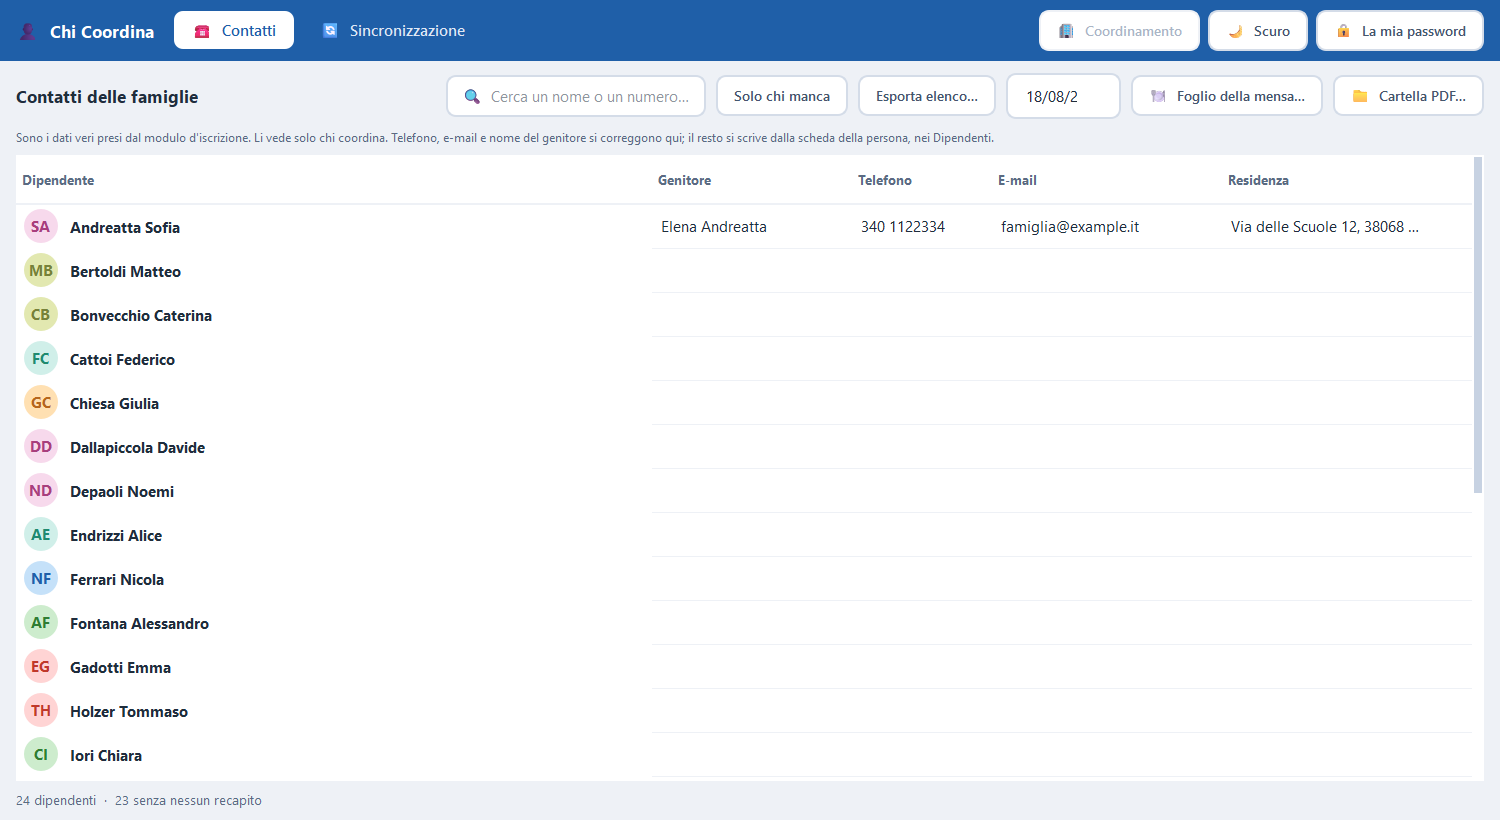
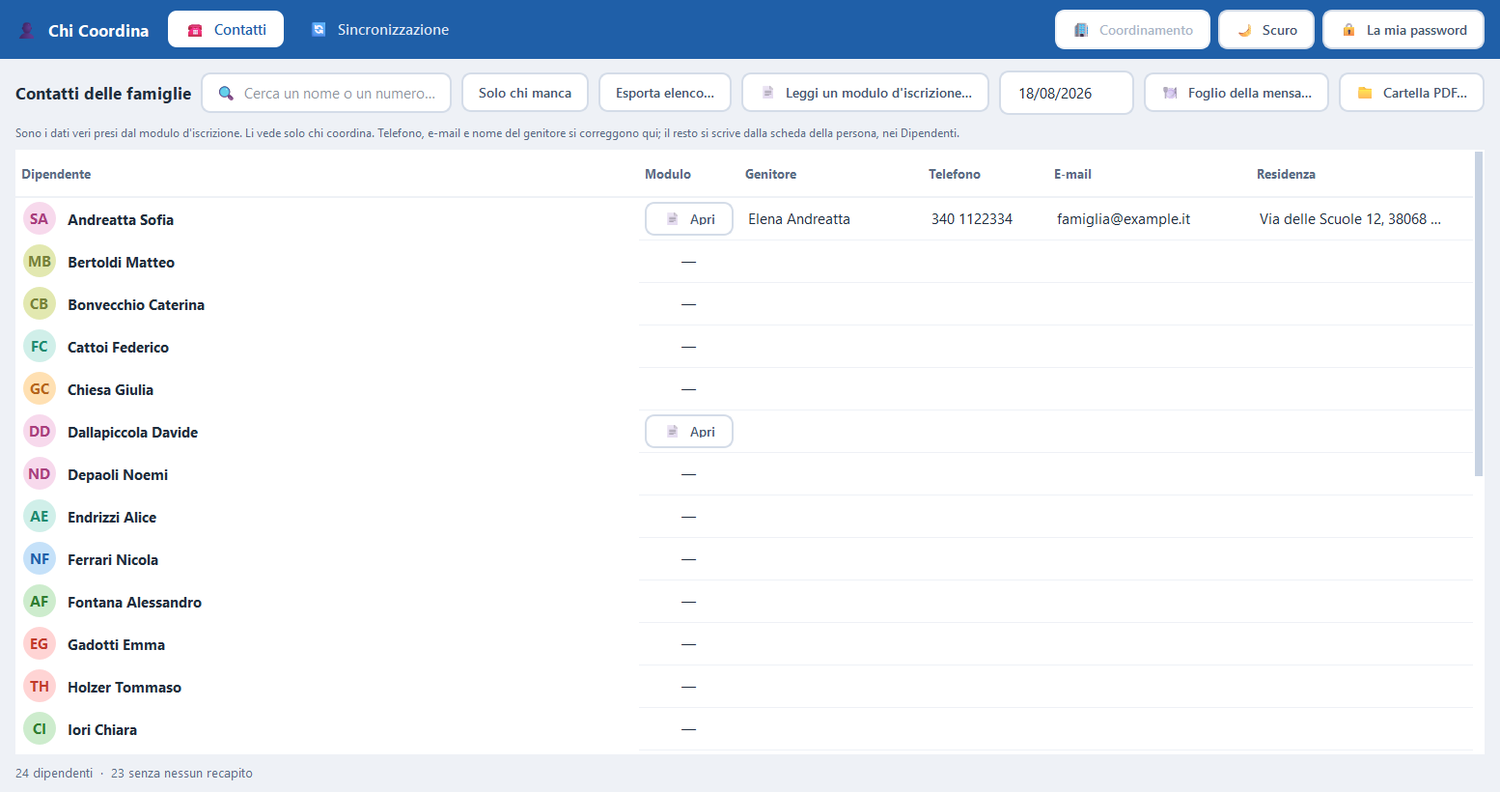
v2.6

diff --git a/schermate.html b/schermate.html
@@ -10,7 +10,7 @@
 <a class="marchio" href="index.html"><span class="segno">PdR</span><span class="testo">PdRManager</span></a>
 <nav><a href="index.html">Home</a><a href="schermate.html" aria-current="page">Le schermate</a><a href="stampe.html">Le stampe</a><a href="ruoli.html">Chi entra</a><a href="rete.html">I tre computer</a><a href="domande.html">Domande</a><a href="guida.html">La guida</a></nav></div></header>
 <header class="cappello"><p class="briciole"><a href="index.html">Home</a> › Le schermate</p><p class="occhiello">Una per una</p><h1>Le schermate</h1><p class="guida">Sono dieci, ma nessuno le vede tutte insieme: quelle che compaiono dipendono dal ruolo di chi è entrato e dal banco a cui sta lavorando. «Contatti», per esempio, la apre solo chi coordina.</p></header>
-<main><section class="blocco rivela"><div class="griglia larga"><a class="tessera rivela" href="schermata-lavori.html"><div class="anteprima"><img src="immagini/mini_lavori.png" width="640" height="253" loading="lazy" alt="Lavori del giorno"></div><div class="dentro"><span class="icona">📋</span><h3>Lavori del giorno</h3><p>La griglia della settimana: chi c&#x27;è e chi lavora dove.</p><span class="freccia">Guarda →</span></div></a><a class="tessera rivela" href="schermata-ragazzi.html"><div class="anteprima"><img src="immagini/mini_ragazzi.png" width="640" height="253" loading="lazy" alt="Dipendenti"></div><div class="dentro"><span class="icona">🧒</span><h3>Dipendenti</h3><p>L&#x27;anagrafica: chi partecipa, in che classe, a che fermata dell&#x27;autobus.</p><span class="freccia">Guarda →</span></div></a><a class="tessera rivela" href="schermata-aziende.html"><div class="anteprima"><img src="immagini/mini_aziende.png" width="640" height="253" loading="lazy" alt="Aziende"></div><div class="dentro"><span class="icona">🏭</span><h3>Aziende</h3><p>Le venti aziende del Paese con quanto pagano, quanti dipendenti ci stanno e da che classe in su.</p><span class="freccia">Guarda →</span></div></a><a class="tessera rivela" href="schermata-animatori.html"><div class="anteprima"><img src="immagini/mini_animatori.png" width="640" height="253" loading="lazy" alt="Titolari delle aziende"></div><div class="dentro"><span class="icona">🎪</span><h3>Titolari delle aziende</h3><p>Chi manda avanti il gioco.</p><span class="freccia">Guarda →</span></div></a><a class="tessera rivela" href="schermata-happycard.html"><div class="anteprima"><img src="immagini/mini_happycard.png" width="640" height="253" loading="lazy" alt="HappyCard"></div><div class="dentro"><span class="icona">🎟</span><h3>HappyCard</h3><p>Le tessere premio a bollini.</p><span class="freccia">Guarda →</span></div></a><a class="tessera rivela" href="schermata-buste.html"><div class="anteprima"><img src="immagini/mini_buste.png" width="640" height="238" loading="lazy" alt="Buste paga"></div><div class="dentro"><span class="icona">💶</span><h3>Buste paga</h3><p>Dove si emettono le buste paga.</p><span class="freccia">Guarda →</span></div></a><a class="tessera rivela" href="schermata-conti.html"><div class="anteprima"><img src="immagini/mini_conti.png" width="640" height="238" loading="lazy" alt="Conti correnti"></div><div class="dentro"><span class="icona">🏦</span><h3>Conti correnti</h3><p>I libretti di risparmio della Cassa rurale del Paese.</p><span class="freccia">Guarda →</span></div></a><a class="tessera rivela" href="schermata-contatti.html"><div class="anteprima"><img src="immagini/mini_contatti.png" width="640" height="350" loading="lazy" alt="Contatti"></div><div class="dentro"><span class="icona">☎</span><h3>Contatti</h3><p>I dati veri delle famiglie: residenza, genitore che firma, telefono, e-mail e allergie.</p><span class="freccia">Guarda →</span></div></a><a class="tessera rivela" href="schermata-sincronia.html"><div class="anteprima"><img src="immagini/mini_sincronia.png" width="640" height="238" loading="lazy" alt="Sincronizzazione"></div><div class="dentro"><span class="icona">🔄</span><h3>Sincronizzazione</h3><p>I tre computer si allineano da soli sulla rete locale.</p><span class="freccia">Guarda →</span></div></a><a class="tessera rivela" href="schermata-utenti.html"><div class="anteprima"><img src="immagini/mini_utenti.png" width="640" height="238" loading="lazy" alt="Utenti"></div><div class="dentro"><span class="icona">👤</span><h3>Utenti</h3><p>Chi entra nel programma e che cosa può fare.</p><span class="freccia">Guarda →</span></div></a></div></section><section class="blocco rivela"><p class="occhiello">Com&#x27;è fatta la finestra</p><h2>La barra in alto</h2><p>In alto ci sono le schede del banco a cui si sta lavorando, il pulsante per cambiare banco, quello del tema chiaro o scuro e il nome di chi è entrato. Sotto, i comandi della schermata aperta: a sinistra le cose che si fanno tutti i giorni, a destra quelle che si fanno una volta sola.</p><div class="finestra rivela"><div class="cornice"><span class="pallino"></span><span class="pallino"></span><span class="pallino"></span><span class="nome">La barra delle schede</span></div><a href="immagini/schermata_barra.png" data-lente="La barra delle schede"><img src="immagini/schermata_barra.png" width="1500" height="44" loading="lazy" alt="La barra delle schede"></a></div><p>I colori seguono Windows: se il computer è impostato sullo scuro, il programma parte scuro. Le stampe no — la carta è bianca sempre.</p></section></main>
+<main><section class="blocco rivela"><div class="griglia larga"><a class="tessera rivela" href="schermata-lavori.html"><div class="anteprima"><img src="immagini/mini_lavori.png" width="640" height="253" loading="lazy" alt="Lavori del giorno"></div><div class="dentro"><span class="icona">📋</span><h3>Lavori del giorno</h3><p>La griglia della settimana: chi c&#x27;è e chi lavora dove.</p><span class="freccia">Guarda →</span></div></a><a class="tessera rivela" href="schermata-ragazzi.html"><div class="anteprima"><img src="immagini/mini_ragazzi.png" width="640" height="253" loading="lazy" alt="Dipendenti"></div><div class="dentro"><span class="icona">🧒</span><h3>Dipendenti</h3><p>L&#x27;anagrafica: chi partecipa, in che classe, a che fermata dell&#x27;autobus.</p><span class="freccia">Guarda →</span></div></a><a class="tessera rivela" href="schermata-aziende.html"><div class="anteprima"><img src="immagini/mini_aziende.png" width="640" height="253" loading="lazy" alt="Aziende"></div><div class="dentro"><span class="icona">🏭</span><h3>Aziende</h3><p>Le venti aziende del Paese con quanto pagano, quanti dipendenti ci stanno e da che classe in su.</p><span class="freccia">Guarda →</span></div></a><a class="tessera rivela" href="schermata-animatori.html"><div class="anteprima"><img src="immagini/mini_animatori.png" width="640" height="253" loading="lazy" alt="Titolari delle aziende"></div><div class="dentro"><span class="icona">🎪</span><h3>Titolari delle aziende</h3><p>Chi manda avanti il gioco.</p><span class="freccia">Guarda →</span></div></a><a class="tessera rivela" href="schermata-happycard.html"><div class="anteprima"><img src="immagini/mini_happycard.png" width="640" height="253" loading="lazy" alt="HappyCard"></div><div class="dentro"><span class="icona">🎟</span><h3>HappyCard</h3><p>Le tessere premio a bollini.</p><span class="freccia">Guarda →</span></div></a><a class="tessera rivela" href="schermata-buste.html"><div class="anteprima"><img src="immagini/mini_buste.png" width="640" height="238" loading="lazy" alt="Buste paga"></div><div class="dentro"><span class="icona">💶</span><h3>Buste paga</h3><p>Dove si emettono le buste paga.</p><span class="freccia">Guarda →</span></div></a><a class="tessera rivela" href="schermata-conti.html"><div class="anteprima"><img src="immagini/mini_conti.png" width="640" height="238" loading="lazy" alt="Conti correnti"></div><div class="dentro"><span class="icona">🏦</span><h3>Conti correnti</h3><p>I libretti di risparmio della Cassa rurale del Paese.</p><span class="freccia">Guarda →</span></div></a><a class="tessera rivela" href="schermata-contatti.html"><div class="anteprima"><img src="immagini/mini_contatti.png" width="640" height="338" loading="lazy" alt="Contatti"></div><div class="dentro"><span class="icona">☎</span><h3>Contatti</h3><p>I dati veri delle famiglie: residenza, genitore che firma, telefono, e-mail e allergie.</p><span class="freccia">Guarda →</span></div></a><a class="tessera rivela" href="schermata-sincronia.html"><div class="anteprima"><img src="immagini/mini_sincronia.png" width="640" height="238" loading="lazy" alt="Sincronizzazione"></div><div class="dentro"><span class="icona">🔄</span><h3>Sincronizzazione</h3><p>I tre computer si allineano da soli sulla rete locale.</p><span class="freccia">Guarda →</span></div></a><a class="tessera rivela" href="schermata-utenti.html"><div class="anteprima"><img src="immagini/mini_utenti.png" width="640" height="238" loading="lazy" alt="Utenti"></div><div class="dentro"><span class="icona">👤</span><h3>Utenti</h3><p>Chi entra nel programma e che cosa può fare.</p><span class="freccia">Guarda →</span></div></a></div></section><section class="blocco rivela"><p class="occhiello">Com&#x27;è fatta la finestra</p><h2>La barra in alto</h2><p>In alto ci sono le schede del banco a cui si sta lavorando, il pulsante per cambiare banco, quello del tema chiaro o scuro e il nome di chi è entrato. Sotto, i comandi della schermata aperta: a sinistra le cose che si fanno tutti i giorni, a destra quelle che si fanno una volta sola.</p><div class="finestra rivela"><div class="cornice"><span class="pallino"></span><span class="pallino"></span><span class="pallino"></span><span class="nome">La barra delle schede</span></div><a href="immagini/schermata_barra.png" data-lente="La barra delle schede"><img src="immagini/schermata_barra.png" width="1500" height="44" loading="lazy" alt="La barra delle schede"></a></div><p>I colori seguono Windows: se il computer è impostato sullo scuro, il programma parte scuro. Le stampe no — la carta è bianca sempre.</p></section></main>
 <footer><div class="dentro"><div><h4>PdRManager</h4><a href="index.html">Che cos&#x27;è</a><a href="schermate.html">Le schermate</a><a href="stampe.html">Le stampe</a></div><div><h4>Come funziona</h4><a href="ruoli.html">Chi entra e che cosa vede</a><a href="rete.html">I tre computer</a><a href="domande.html">Domande frequenti</a></div><div><h4>Da leggere</h4><a href="guida.html">La guida in PDF</a></div><div><h4>Il Paese dei Ragazzi</h4><small>Gruppo ALBORA · Cassa Rurale del Paese dei Ragazzi<br><br>Pagine rifatte il 18/08/2026.<br>Non si correggono a mano: si rifanno con <code>python crea_sito.py</code>.</small></div></div></footer>
 <script>
 document.documentElement.classList.add('js');

diff --git a/schermata-contatti.html b/schermata-contatti.html
@@ -10,7 +10,7 @@
 <a class="marchio" href="index.html"><span class="segno">PdR</span><span class="testo">PdRManager</span></a>
 <nav><a href="index.html">Home</a><a href="schermate.html" aria-current="page">Le schermate</a><a href="stampe.html">Le stampe</a><a href="ruoli.html">Chi entra</a><a href="rete.html">I tre computer</a><a href="domande.html">Domande</a><a href="guida.html">La guida</a></nav></div></header>
 <header class="cappello"><p class="briciole"><a href="index.html">Home</a> › <a href="schermate.html">Le schermate</a> › Contatti</p><p class="occhiello">Le schermate</p><span class="icona-grande">☎</span><h1>Contatti</h1><p class="guida">I dati veri delle famiglie: residenza, genitore che firma, telefono, e-mail e allergie.</p></header>
-<main><section class="blocco rivela"><p>I dati veri delle famiglie: residenza, genitore che firma, telefono, e-mail e allergie. È l&#x27;unica schermata dell&#x27;app del Coordinamento, e i suoi dati stanno in un file a parte che non esce da questo computer.</p><div class="finestra rivela"><div class="cornice"><span class="pallino"></span><span class="pallino"></span><span class="pallino"></span><span class="nome">PdRManager — Contatti</span></div><a href="immagini/schermata_contatti.png" data-lente="PdRManager — Contatti"><img src="immagini/schermata_contatti.png" width="1500" height="820" loading="lazy" alt="PdRManager — Contatti"></a></div></section><section class="blocco rivela"><p class="occhiello">Che cosa fa che cosa</p><h2>I comandi</h2><div class="scorre"><table class="comandi"><thead><tr><th>Comando</th><th>Che cosa fa</th></tr></thead><tbody><tr><td>Elenco delle famiglie</td><td>Un dipendente per riga, coi recapiti presi dal modulo d&#x27;iscrizione.</td></tr><tr><td>Scheda della persona</td><td>Residenza, genitore che firma, telefono, e-mail, allergie.</td></tr><tr><td>Leggi un modulo d&#x27;iscrizione…</td><td>Legge il PDF del modulo e propone i campi, uno alla volta, da controllare prima di importarli.</td></tr><tr><td>🍽 Foglio della mensa…</td><td>Pranzo, merenda e allergie di tutti su un A4 da portare in cucina. La giornata si sceglie nella casella accanto.</td></tr></tbody></table></div></section><section class="blocco rivela"><p class="occhiello">Dal primo clic</p><h2>Come si fa, passo per passo</h2><ol class="passi"><li>Questa scheda la vede solo chi entra come coordinatore.</li><li>L&#x27;elenco mostra i dipendenti con i recapiti delle famiglie.</li><li>Clicca due volte su una riga per aprire la scheda della persona e scrivere o correggere i dati.</li><li>Clicca «Salva» in fondo alla finestra: se chiudi con la X, quello che hai scritto si perde.</li><li>Per la cucina: scegli la giornata nella casella in alto e clicca «🍽 Foglio della mensa…».</li></ol><div class="richiamo avviso"><strong>Se non funziona:</strong> Se la scheda non compare fra quelle in alto, sei entrato con un utente che non è coordinatore. Esci e rientra con quello giusto.</div></section><nav class="impaginato"><a href="schermata-conti.html"><small>← Schermata precedente</small><strong>Conti correnti</strong></a><a href="schermata-sincronia.html"><small>Schermata successiva →</small><strong>Sincronizzazione</strong></a></nav></main>
+<main><section class="blocco rivela"><p>I dati veri delle famiglie: residenza, genitore che firma, telefono, e-mail e allergie. È l&#x27;unica schermata dell&#x27;app del Coordinamento, e i suoi dati stanno in un file a parte che non esce da questo computer.</p><div class="finestra rivela"><div class="cornice"><span class="pallino"></span><span class="pallino"></span><span class="pallino"></span><span class="nome">PdRManager — Contatti</span></div><a href="immagini/schermata_contatti.png" data-lente="PdRManager — Contatti"><img src="immagini/schermata_contatti.png" width="1500" height="792" loading="lazy" alt="PdRManager — Contatti"></a></div></section><section class="blocco rivela"><p class="occhiello">Che cosa fa che cosa</p><h2>I comandi</h2><div class="scorre"><table class="comandi"><thead><tr><th>Comando</th><th>Che cosa fa</th></tr></thead><tbody><tr><td>Elenco delle famiglie</td><td>Un dipendente per riga, coi recapiti presi dal modulo d&#x27;iscrizione.</td></tr><tr><td>Scheda della persona</td><td>Residenza, genitore che firma, telefono, e-mail, allergie.</td></tr><tr><td>📄 Leggi un modulo d&#x27;iscrizione…</td><td>Legge il PDF del modulo e propone i campi, uno alla volta, da controllare prima di importarli. Il foglio viene conservato.</td></tr><tr><td>📄 Apri, sulla riga</td><td>Riapre il modulo d&#x27;iscrizione di quella persona, così com&#x27;era: quello che il programma ha capito sta nei campi, quello che la famiglia ha scritto sta sul foglio.</td></tr><tr><td>🍽 Foglio della mensa…</td><td>Pranzo, merenda e allergie di tutti su un A4 da portare in cucina. La giornata si sceglie nella casella accanto.</td></tr></tbody></table></div></section><section class="blocco rivela"><p class="occhiello">Dal primo clic</p><h2>Come si fa, passo per passo</h2><ol class="passi"><li>Questa scheda la vede solo chi entra come coordinatore.</li><li>L&#x27;elenco mostra i dipendenti con i recapiti delle famiglie.</li><li>Clicca due volte su una riga per aprire la scheda della persona e scrivere o correggere i dati.</li><li>Clicca «Salva» in fondo alla finestra: se chiudi con la X, quello che hai scritto si perde.</li><li>Per la cucina: scegli la giornata nella casella in alto e clicca «🍽 Foglio della mensa…».</li></ol><div class="richiamo avviso"><strong>Se non funziona:</strong> Se la scheda non compare fra quelle in alto, sei entrato con un utente che non è coordinatore. Esci e rientra con quello giusto.</div></section><nav class="impaginato"><a href="schermata-conti.html"><small>← Schermata precedente</small><strong>Conti correnti</strong></a><a href="schermata-sincronia.html"><small>Schermata successiva →</small><strong>Sincronizzazione</strong></a></nav></main>
 <footer><div class="dentro"><div><h4>PdRManager</h4><a href="index.html">Che cos&#x27;è</a><a href="schermate.html">Le schermate</a><a href="stampe.html">Le stampe</a></div><div><h4>Come funziona</h4><a href="ruoli.html">Chi entra e che cosa vede</a><a href="rete.html">I tre computer</a><a href="domande.html">Domande frequenti</a></div><div><h4>Da leggere</h4><a href="guida.html">La guida in PDF</a></div><div><h4>Il Paese dei Ragazzi</h4><small>Gruppo ALBORA · Cassa Rurale del Paese dei Ragazzi<br><br>Pagine rifatte il 18/08/2026.<br>Non si correggono a mano: si rifanno con <code>python crea_sito.py</code>.</small></div></div></footer>
 <script>
 document.documentElement.classList.add('js');

diff --git a/guida.html b/guida.html
@@ -10,7 +10,7 @@
 <a class="marchio" href="index.html"><span class="segno">PdR</span><span class="testo">PdRManager</span></a>
 <nav><a href="index.html">Home</a><a href="schermate.html">Le schermate</a><a href="stampe.html">Le stampe</a><a href="ruoli.html">Chi entra</a><a href="rete.html">I tre computer</a><a href="domande.html">Domande</a><a href="guida.html" aria-current="page">La guida</a></nav></div></header>
 <header class="cappello"><p class="briciole"><a href="index.html">Home</a> › La guida</p><p class="occhiello">Da leggere</p><span class="icona-grande">📘</span><h1>La guida</h1><p class="guida">La stessa cosa scritta per esteso, da stampare e tenere sul banco.</p></header>
-<main><section class="blocco rivela"><div class="griglia"><div class="carta rivela"><span style="font-size:30px">📘</span><h3>La guida completa</h3><p>Ventotto pagine: una per una tutte le schermate, tutte le stampe con l&#x27;esempio di ognuna, i tre computer e le domande frequenti. C&#x27;è anche il capitolo per chi al computer ci si siede due settimane l&#x27;anno.</p><p><small>PDF · 3.2 MB</small></p><div class="azioni"><a class="bottone" href="Guida-PdRManager.pdf" target="_blank" rel="noopener">Apri il PDF ↗</a><a class="bottone tenue" href="Guida-PdRManager.pdf" download>⤓ Scarica</a></div></div><div class="carta rivela"><span style="font-size:30px">📄</span><h3>La guida rapida</h3><p>Lo stesso testo senza le figure e senza i passo-passo, per chi il programma lo conosce già e vuole solo ricordarsi dov&#x27;è un comando.</p><p><small>PDF · 205 KB</small></p><div class="azioni"><a class="bottone" href="Guida-PdRManager-Riassunto.pdf" target="_blank" rel="noopener">Apri il PDF ↗</a><a class="bottone tenue" href="Guida-PdRManager-Riassunto.pdf" download>⤓ Scarica</a></div></div></div></section><section class="blocco rivela"><p class="occhiello">Come si installa</p><h2>Il programma non si scarica da qui</h2><p>Per installare o aggiornare si usa Aggiorna.exe, che si passa a mano: si apre, si sceglie la cartella e fa tutto — copia del database, programma vecchio messo da parte per poter tornare indietro, versione nuova al suo posto.</p><p>È una scelta, non una dimenticanza: l&#x27;eseguibile sta nella stessa cartella in cui il programma si crea accanto database, backup e PDF, e quelli sono dati veri di dipendenti veri. Su un sito non ci vanno nemmeno per sbaglio.</p></section><section class="blocco rivela"><p class="occhiello">Una nota</p><h2>Come sono fatte queste pagine</h2><p>Gli scatti non sono ritagliati a mano: vengono dal programma vero, guidato senza mostrarlo a schermo su un database dimostrativo con nomi e aziende inventati. Gli esempi di stampa escono dalle stesse funzioni che usa il programma.</p><p>Per questo il sito non si corregge: si rifà da capo con «python crea_sito.py», e in un minuto è di nuovo aggiornato.</p></section></main>
+<main><section class="blocco rivela"><div class="griglia"><div class="carta rivela"><span style="font-size:30px">📘</span><h3>La guida completa</h3><p>Ventotto pagine: una per una tutte le schermate, tutte le stampe con l&#x27;esempio di ognuna, i tre computer e le domande frequenti. C&#x27;è anche il capitolo per chi al computer ci si siede due settimane l&#x27;anno.</p><p><small>PDF · 2.8 MB</small></p><div class="azioni"><a class="bottone" href="Guida-PdRManager.pdf" target="_blank" rel="noopener">Apri il PDF ↗</a><a class="bottone tenue" href="Guida-PdRManager.pdf" download>⤓ Scarica</a></div></div><div class="carta rivela"><span style="font-size:30px">📄</span><h3>La guida rapida</h3><p>Lo stesso testo senza le figure e senza i passo-passo, per chi il programma lo conosce già e vuole solo ricordarsi dov&#x27;è un comando.</p><p><small>PDF · 182 KB</small></p><div class="azioni"><a class="bottone" href="Guida-PdRManager-Riassunto.pdf" target="_blank" rel="noopener">Apri il PDF ↗</a><a class="bottone tenue" href="Guida-PdRManager-Riassunto.pdf" download>⤓ Scarica</a></div></div></div></section><section class="blocco rivela"><p class="occhiello">Come si installa</p><h2>Il programma non si scarica da qui</h2><p>Per installare o aggiornare si usa Aggiorna.exe, che si passa a mano: si apre, si sceglie la cartella e fa tutto — copia del database, programma vecchio messo da parte per poter tornare indietro, versione nuova al suo posto.</p><p>È una scelta, non una dimenticanza: l&#x27;eseguibile sta nella stessa cartella in cui il programma si crea accanto database, backup e PDF, e quelli sono dati veri di dipendenti veri. Su un sito non ci vanno nemmeno per sbaglio.</p></section><section class="blocco rivela"><p class="occhiello">Una nota</p><h2>Come sono fatte queste pagine</h2><p>Gli scatti non sono ritagliati a mano: vengono dal programma vero, guidato senza mostrarlo a schermo su un database dimostrativo con nomi e aziende inventati. Gli esempi di stampa escono dalle stesse funzioni che usa il programma.</p><p>Per questo il sito non si corregge: si rifà da capo con «python crea_sito.py», e in un minuto è di nuovo aggiornato.</p></section></main>
 <footer><div class="dentro"><div><h4>PdRManager</h4><a href="index.html">Che cos&#x27;è</a><a href="schermate.html">Le schermate</a><a href="stampe.html">Le stampe</a></div><div><h4>Come funziona</h4><a href="ruoli.html">Chi entra e che cosa vede</a><a href="rete.html">I tre computer</a><a href="domande.html">Domande frequenti</a></div><div><h4>Da leggere</h4><a href="guida.html">La guida in PDF</a></div><div><h4>Il Paese dei Ragazzi</h4><small>Gruppo ALBORA · Cassa Rurale del Paese dei Ragazzi<br><br>Pagine rifatte il 18/08/2026.<br>Non si correggono a mano: si rifanno con <code>python crea_sito.py</code>.</small></div></div></footer>
 <script>
 document.documentElement.classList.add('js');
